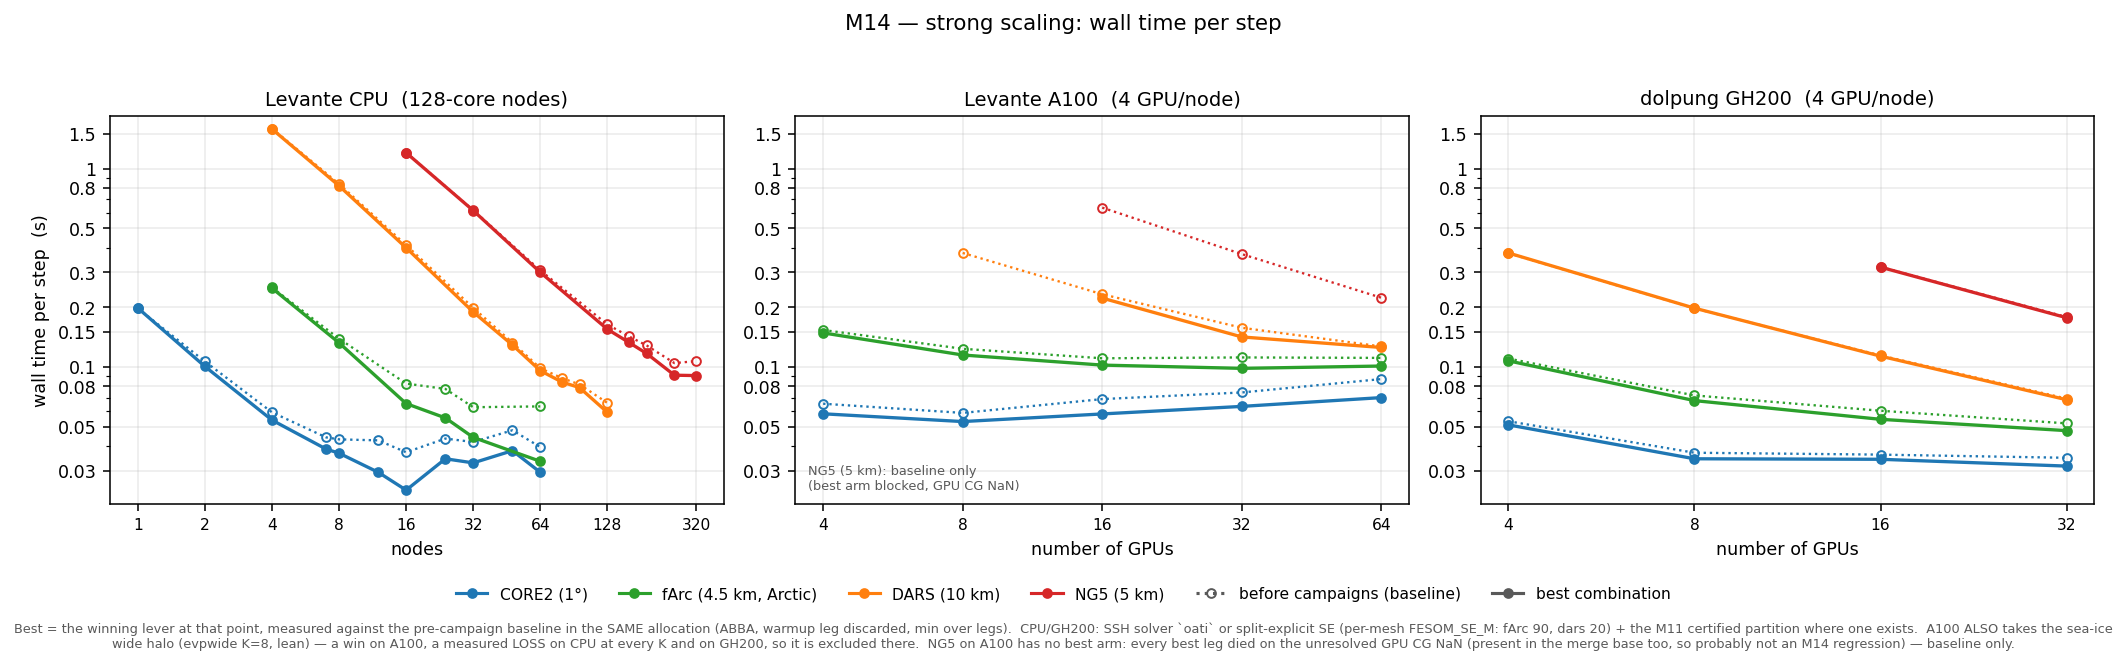
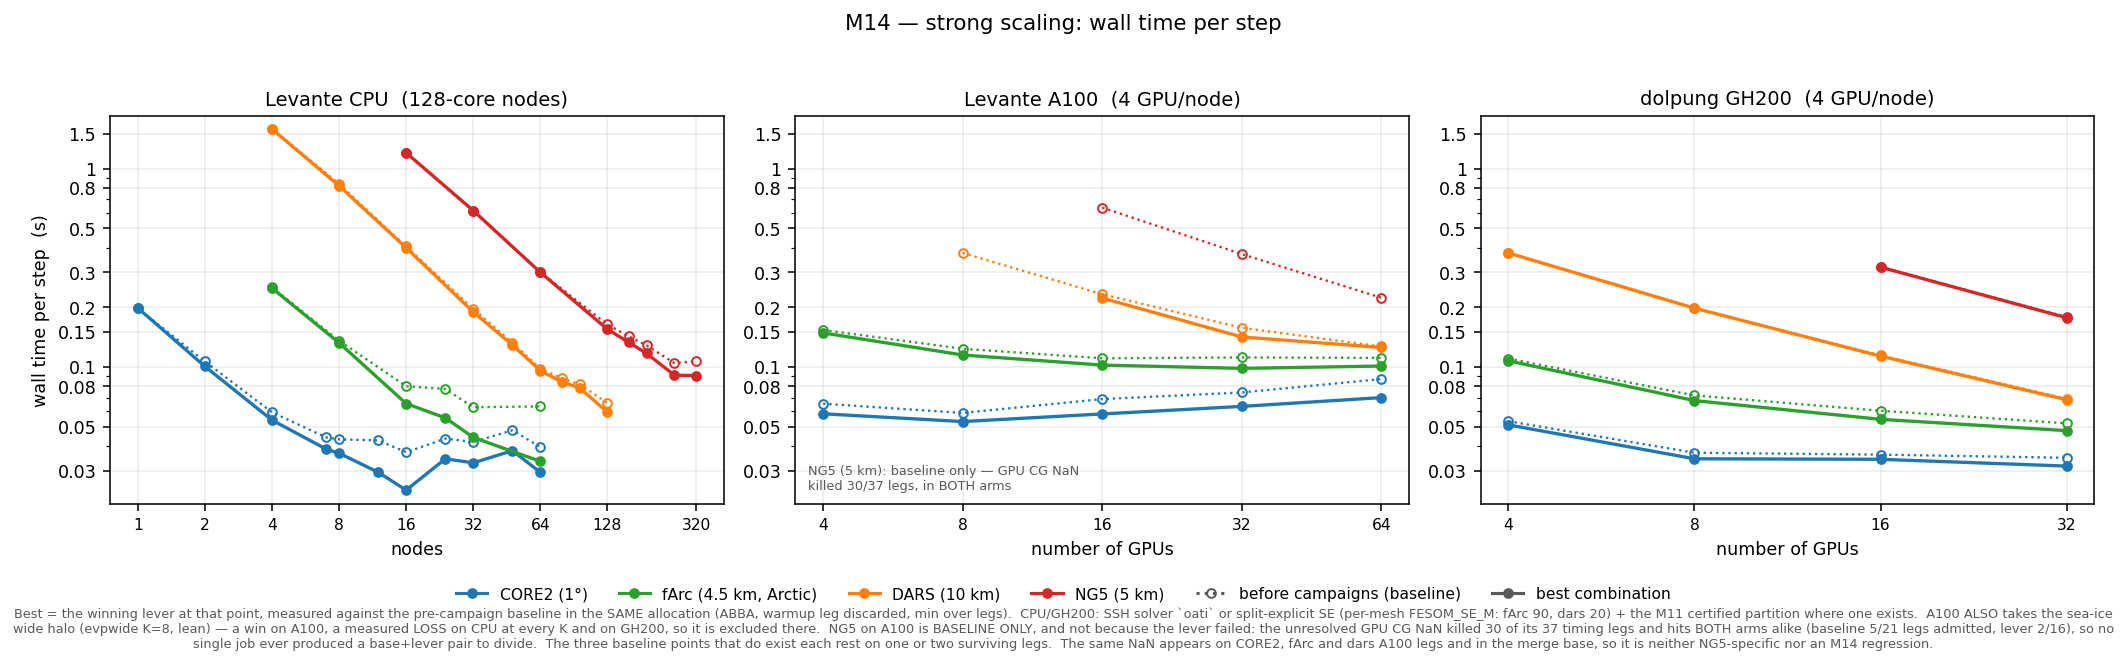
M14 figures: per-lever strong scaling (SSH / sea ice / partitioning) + correct the NG5 GPU diagnosis
Three new figures, each isolating ONE lever measured on its own against the
same baseline, absolute s/step on top and its within-job speedup below,
one column per platform:

  m14_lever_ssh    oati (62 jobs) and split-explicit SE, separate curves;
                   SE (tuned M) and SE (default M=50) kept apart because M is
                   a per-mesh tuning, not a repeat of one configuration
  m14_lever_ice    evpwide K=2/4/8 lean. CPU sits BELOW 1.0 at every K and
                   every rank count -- that is the measurement
  m14_lever_part   dist_N swapped, same binary and knobs: a5_u30, KaMinPar,
                   KaHyPar, certified *_v1. CPU only

Classification: a job carrying two levers (part+oati) is a `combo` and enters
no lever figure; a job with no lever is a `null` cost control and is no longer
admitted as a "best" arm anywhere. The CPU ice jobs are no longer dropped at
harvest -- they are excluded from the best-COMBINATION curve (a measured loss
there) but the ice-only figure has to show exactly that loss.

Also corrects the NG5-on-A100 annotation. It said "best arm blocked, GPU CG
NaN". A leg census over all eleven NG5 A100 jobs says otherwise: 7 of 37
timing legs survived, the failure hits BOTH arms (baseline 5/21 admitted,
lever 2/16) and worsens with scale (4/9 at 16 GPUs, 2/10 at 32, 1/18 at 64).
No job ever got a base leg and a lever leg through together -- that, and not
a lever-specific failure, is why the mesh has no GPU speedup. The FATAL lands
[…]

Changed region(s): [[0.0, 0.9023, 0.9934, 0.9925], [0.3725, 0.6917, 0.4967, 0.7519], [0.1863, 0.5714, 0.2173, 0.6015]]

diff --git a/scripts/m14_scaling_figs.py b/scripts/m14_scaling_figs.py
@@ -83,6 +83,40 @@ def _lever(txt):
     return re.sub(r"\s+", " ", lev)
 
 
+# The three lever families the campaign can isolate, because each was measured on its own against
+# the same baseline in its own job. A job that carries TWO levers (part+oati) is a `combo` and
+# belongs to none of them; a job with no lever at all is a `null` cost control, and admitting it
+# as a "best" arm would put a noise-level pair on a lever's curve.
+FAMILIES = {"ssh":  "SSH solve",
+            "ice":  "sea-ice wide halo",
+            "part": "partitioning"}
+
+
+def classify(txt):
+    """-> (family, detail). detail distinguishes curves WITHIN a family (oati vs SE, K, engine)."""
+    bk = re.search(r"best knobs: (.*)", txt)
+    bm = re.search(r"^best mesh : \S*/(\w+)/dist_", txt, re.M)
+    knobs = re.sub(r"\s+", " ", bk.group(1).strip()) if bk else ""
+    part = bm.group(1) if bm else None
+    ssh = "SSH_SOLVER" in knobs or "SSH_MODE" in knobs
+    ice = "EVPWIDE" in knobs
+    if part and not knobs:
+        return "part", part
+    if part or (ssh and ice):
+        return "combo", (f"part={part} " if part else "") + knobs
+    if ssh:
+        if "SSH_MODE=se" in knobs:
+            # M is a PER-MESH tuning (fArc 90, dars 20); the default 50 is a different
+            # configuration, not a repeat of the same one, so it stays its own curve.
+            return "ssh", "SE (tuned M)" if re.search(r"SE_M=\d+", knobs) else "SE (default M=50)"
+        m = re.search(r"SSH_SOLVER=(\w+)", knobs)
+        return "ssh", m.group(1) if m else "solver"
+    if ice:
+        m = re.search(r"EVPWIDE=(\d+)", knobs)
+        return "ice", "K=" + (m.group(1) if m else "?") + (" lean" if "LEAN" in knobs else "")
+    return "null", ""
+
+
 def harvest():
     """-> list of per-job records {plat, mesh, units, job, lever, base, best}.
 
@@ -92,7 +126,8 @@ def harvest():
     recs = []
 
     def add(plat, mesh, units, job, lever, txt, pat):
-        r = dict(plat=plat, mesh=mesh, units=units, job=job, lever=lever)
+        fam, detail = classify(txt)
+        r = dict(plat=plat, mesh=mesh, units=units, job=job, lever=lever, fam=fam, detail=detail)
         for arm in ("base", "best"):
             m = re.search(pat.format(arm=arm), txt)
             if m and float(m.group(1)) > 0:
@@ -108,11 +143,8 @@ def harvest():
         m = re.search(r"M14 CPU ladder — (\w+) ranks=(\d+)", txt)
         if not m:
             continue
-        lev = _lever(txt)
-        if "evpwide" in lev:      # measured a LOSS on CPU at every K — never in the best arm
-            continue
         add("cpu", m.group(1), max(1, round(int(m.group(2)) / 128)),
-            os.path.basename(f), lev, txt, RESULT)
+            os.path.basename(f), _lever(txt), txt, RESULT)
 
     # --- Levante A100 ------------------------------------------------------
     for f in glob.glob(f"{M14}/gladder.*.out"):
@@ -133,12 +165,27 @@ def harvest():
     return recs
 
 
+def in_best_combination(r):
+    """Which measured levers the "best combination" curve is allowed to take.
+
+    A null control carries no lever. The sea-ice wide halo is a measured LOSS on CPU at every K
+    and on GH200, so the recommended combination excludes it there — but the records are still
+    harvested, because the ice-only figure has to show exactly that loss."""
+    if r["fam"] == "null":
+        return False
+    if r["fam"] == "ice" and r["plat"] != "a100":
+        return False
+    return True
+
+
 def curves(recs):
     """-> {plat: {mesh: {units: {'base': s, 'best': s, 'lever': str}}}}, min over every job."""
     out = collections.defaultdict(lambda: collections.defaultdict(dict))
     for r in recs:
         d = out[r["plat"]][r["mesh"]].setdefault(r["units"], {})
         for arm in ("base", "best"):
+            if arm == "best" and not in_best_combination(r):
+                continue
             if arm in r and (arm not in d or r[arm] < d[arm]):
                 d[arm] = r[arm]
                 if arm == "best":
@@ -152,7 +199,7 @@ def speedups(recs):
     Same lever measured several times => median gain (F43). Different levers => the best."""
     per_lever = collections.defaultdict(list)
     for r in recs:
-        if "base" in r and "best" in r:
+        if "base" in r and "best" in r and in_best_combination(r):
             per_lever[(r["plat"], r["mesh"], r["units"], r["lever"])].append(r["base"] / r["best"])
     out = collections.defaultdict(lambda: collections.defaultdict(dict))
     best = {}
@@ -216,8 +263,12 @@ NOTE_SYPD = ("SYPD = dt_prod/(365·s_step), dt_prod = CORE2 1800 · fArc 900 · 
              "dars is measured at dt120 and NG5 at dt180 — NO CG dt-correction applied (it would "
              "be ×1.022 / ×1.011), so dars/NG5 SYPD is ~2 %/1 % optimistic.  SE points rescaled "
              "to production dt are estimates: the barotropic subcycle count depends on dt.")
-NOTE_GAP = ("NG5 on A100 has no best arm: every best leg died on the unresolved GPU CG NaN "
-            "(present in the merge base too, so probably not an M14 regression) — baseline only.")
+NOTE_GAP = ("NG5 on A100 is BASELINE ONLY, and not because the lever failed: the unresolved GPU CG "
+            "NaN killed 30 of its 37 timing legs and hits BOTH arms alike (baseline 5/21 legs "
+            "admitted, lever 2/16), so no single job ever produced a base+lever pair to divide.  "
+            "The three baseline points that do exist each rest on one or two surviving legs.  The "
+            "same NaN appears on CORE2, fArc and dars A100 legs and in the merge base, so it is "
+            "neither NG5-specific nor an M14 regression.")
 
 
 def annotate_gaps(ax, plat, data):
@@ -228,7 +279,8 @@ def annotate_gaps(ax, plat, data):
                if m in data.get(plat, {})
                and not any("best" in v for v in data[plat][m].values())]
     if missing:
-        ax.text(0.02, 0.03, "  ".join(missing) + ": baseline only\n(best arm blocked, GPU CG NaN)",
+        ax.text(0.02, 0.03, "  ".join(missing) + ": baseline only — GPU CG NaN\n"
+                "killed 30/37 legs, in BOTH arms",
                 transform=ax.transAxes, fontsize=6.6, color="0.35", va="bottom")
 
 
@@ -347,6 +399,121 @@ def fig_speedup(sp, data, fname):
     print("wrote", fname)
 
 
+DETAIL_LS = ["-", "--", "-.", (0, (3, 1, 1, 1, 1, 1))]
+
+
+def fig_lever(recs, data, fam, fname):
+    """One lever, on its own: absolute curves (row 0) and its within-job speedup (row 1).
+
+    The baseline (dotted) is the SAME curve in every lever figure — min over every admitted base
+    leg at that rung, from any job. The lever curve is min over that family's best legs only.
+    Speedups are within-job, so a rung where the lever ran but its own baseline legs died has an
+    absolute point and NO speedup point — that asymmetry is real and is left visible."""
+    mine = [r for r in recs if r["fam"] == fam]
+    # Most-measured detail gets the solid line: within a family it is the one the campaign
+    # actually settled on (oati, K=8, a5_u30), and the eye reads solid as the main curve.
+    freq = collections.Counter(r["detail"] for r in mine)
+    details = sorted(freq, key=lambda d: (-freq[d], d))
+    ls_of = {d: DETAIL_LS[i % len(DETAIL_LS)] for i, d in enumerate(details)}
+
+    lev_abs = collections.defaultdict(dict)          # (plat,mesh,detail) -> {units: s}
+    lev_sp = collections.defaultdict(lambda: collections.defaultdict(list))
+    for r in mine:
+        k = (r["plat"], r["mesh"], r["detail"])
+        if "best" in r:
+            d = lev_abs[k]
+            if r["units"] not in d or r["best"] < d[r["units"]]:
+                d[r["units"]] = r["best"]
+        if "base" in r and "best" in r:
+            lev_sp[k][r["units"]].append(r["base"] / r["best"])
+
+    fig, axes = plt.subplots(2, 3, figsize=(15.0, 7.8))
+    lo, hi, shi, slo = 1e9, 0, 1.05, 1.0
+    for col, (plat, pname, xlab) in enumerate(PLATS):
+        a0, a1 = axes[0][col], axes[1][col]
+        allx = []
+        for mesh in MESH_ORDER:
+            c = MESH_COLOR.get(mesh, "k")
+            base = {u: v["base"] for u, v in data.get(plat, {}).get(mesh, {}).items()
+                    if "base" in v}
+            has = [d for d in details if lev_abs.get((plat, mesh, d))]
+            if not has:
+                continue
+            xs = sorted(base)
+            if xs:                                   # baseline, identical in all three figures
+                a0.plot(xs, [base[u] for u in xs], marker="o", ms=4, ls=":", color=c, lw=1.2,
+                        markerfacecolor="none")
+                allx += xs
+                lo, hi = min(lo, min(base.values())), max(hi, max(base.values()))
+            for d in has:
+                pts = lev_abs[(plat, mesh, d)]
+                xs = sorted(pts)
+                allx += xs
+                lo, hi = min(lo, min(pts.values())), max(hi, max(pts.values()))
+                a0.plot(xs, [pts[u] for u in xs], marker="o", ms=4.5, ls=ls_of[d], color=c, lw=1.7)
+                sp = lev_sp.get((plat, mesh, d), {})
+                xs = sorted(sp)
+                if xs:
+                    ys = [statistics.median(sp[u]) for u in xs]
+                    shi, slo = max(shi, max(ys)), min(slo, min(ys))
+                    a1.plot(xs, ys, marker="o", ms=4.5, ls=ls_of[d], color=c, lw=1.7)
+        for ax in (a0, a1):
+            if allx:
+                log2_axis(ax, allx, xlab if ax is a1 else "")
+            ax.grid(alpha=0.25)
+            if not allx:
+                ax.text(0.5, 0.5, "not measured", transform=ax.transAxes, ha="center",
+                        fontsize=9, color="0.6")
+                ax.set_xticks([])
+                ax.set_yticks([])
+        a1.axhline(1.0, color="0.5", lw=1.0, ls="--")
+        a0.set_title(pname, fontsize=10)
+        if allx:
+            a0.set_yscale("log")
+        if col == 0:
+            a0.set_ylabel("wall time per step  (s)")
+            a1.set_ylabel("speedup  (baseline / lever)")
+    for col in range(3):
+        if axes[0][col].get_xticks().size:
+            decimal_log_yaxis(axes[0][col], lo, hi)
+        axes[1][col].set_ylim(min(0.97, slo * 0.99), max(1.03, shi * 1.03))
+
+    handles = [Line2D([], [], color=MESH_COLOR.get(m, "k"), marker="o", ms=4.5, ls="-",
+                      label=MESH_LABEL.get(m, m)) for m in MESH_ORDER
+               if any((p, m, d) in lev_abs for p, _, _ in PLATS for d in details)]
+    handles += [Line2D([], [], color="0.35", ls=":", marker="o", ms=4, markerfacecolor="none",
+                       label="baseline")]
+    handles += [Line2D([], [], color="0.35", ls=ls_of[d], label=d) for d in details]
+    ncol = min(len(handles), 6)
+    rows = -(-len(handles) // ncol)                  # the legend wrapped onto the x-label
+    bottom = 0.075 + 0.022 * rows
+    fig.legend(handles=handles, ncol=ncol, fontsize=8, frameon=False,
+               loc="lower center", bbox_to_anchor=(0.5, bottom - 0.022 * rows))
+    fig.suptitle(f"M14 — {FAMILIES[fam]} alone: strong scaling and speedup", fontsize=11, y=0.99)
+    fig.text(0.5, 0.008, LEVER_NOTE[fam], ha="center", fontsize=6.6, color="0.35", wrap=True)
+    fig.tight_layout(rect=[0, bottom, 1, 0.965])
+    fig.savefig(fname, dpi=140)
+    print("wrote", fname)
+
+
+LEVER_NOTE = {
+    "ssh": ("Two distinct SSH levers, both measured alone against the same baseline: the `oati` "
+            "Krylov solver (M10) and split-explicit barotropic subcycling (M12, `FESOM_SSH_MODE=se`, "
+            "requires zstar).  SE needs a PER-MESH subcycle count: the default M=50 ABORTS on fArc "
+            "and inverts the verdict on dars, so fArc is run at M=90 and dars at M=20.  An SE point "
+            "rescaled to production dt would be an estimate — these are s/step at the measured dt."),
+    "ice": ("The M9/M12b wide ice halo (FESOM_SPEED_EVPWIDE=K with the lean writing), which trades "
+            "halo EXCHANGES for replicated ghost work, so it pays only where a flat per-message "
+            "staging cost dominates.  On A100 that holds and it is the campaign's best GPU lever; "
+            "on CPU it is a LOSS at every K and every rank count, which is why the CPU panel sits "
+            "BELOW 1.0 — that is the measurement, not a plotting error."),
+    "part": ("Partitioning alone: the same binary and knobs, only the dist_N tree swapped for an "
+             "M11 partition (a5_u30 = slack UFACTOR=30, plus the KaHyPar/KaMinPar external engines "
+             "and the certified *_v1 promotions).  Measured on CPU only — the M11 GPU points were "
+             "re-measured in that campaign, not re-run here."),
+}
+
+
 if __name__ == "__main__":
     recs = harvest()
     data, sp = curves(recs), speedups(recs)
@@ -360,6 +527,18 @@ if __name__ == "__main__":
                        default=None)
             tag = f"  best A/B {best[0]:.3f}x @{best[1]} [{best[2]}]" if best else "  no A/B pair"
             print(f"  {pname:32s} {mesh:6s}: {len(pts):2d} rungs, {nb:2d} with a best arm{tag}")
+    print("\n  per-lever job counts (jobs with a usable within-job pair / jobs with a best arm):")
+    for fam in FAMILIES:
+        n = [r for r in recs if r["fam"] == fam]
+        print(f"    {fam:5s} {FAMILIES[fam]:20s} "
+              f"{sum(1 for r in n if 'base' in r and 'best' in r):3d} / {sum(1 for r in n if 'best' in r):3d}"
+              f"   details: {sorted({r['detail'] for r in n})}")
+    for fam in ("combo", "null"):
+        n = [r for r in recs if r["fam"] == fam]
+        print(f"    {fam:5s} {'(excluded from lever figures)':20s} {len(n):3d} jobs")
+
     fig_sstep(data, f"{M14}/m14_scaling_sstep.png")
     fig_sypd(data, f"{M14}/m14_scaling_sypd.png")
     fig_speedup(sp, data, f"{M14}/m14_speedup.png")
+    for fam in FAMILIES:
+        fig_lever(recs, data, fam, f"{M14}/m14_lever_{fam}.png")

diff --git a/docs/plans/20260816-m14-HANDOFF.md b/docs/plans/20260816-m14-HANDOFF.md
@@ -13,6 +13,17 @@
    `h17` clean — so probably NOT an M14 regression, but that test was underpowered (20 steps at
    32 GPUs = 1 failure in 12 legs). **Re-armed at the failing condition (64 GPUs × 300 steps, jobs
    26997395 ng5 / 26997396 dars) — READ THOSE FIRST.**
+   🔴 **AMENDED 2026-08-16 (leg census over every A100 ladder job, while rebuilding the figures):
+   "intermittently" understates it at NG5.** Across the NG5 A100 rungs (16/32/64 GPUs) only **7 of
+   37 timing legs survived**, and the failure is **not arm-specific** — baseline 5/21 admitted,
+   lever 2/16. It worsens with scale: 4/9 admitted at 16 GPUs, 2/10 at 32, **1/18 at 64**. So no
+   NG5 A100 job ever produced a base+lever pair in one allocation, which is the *only* reason that
+   mesh has no GPU speedup. Most failing legs carry the `pp·App is -nan` FATAL in **`run.err`, not
+   `run.log`** (grepping the wrong stream reads as "no NaN anywhere" — it cost me an incorrect
+   statement to the user); the remainder are SIGKILL with no FATAL recorded, which may be the same
+   event with the message unflushed — **untested, candidate explanation only**. Two further jobs
+   (26993172, 26996418) are plain SLURM TIMEOUTs: five NG5 legs at 16 GPUs need ~50 min and the
+   jobs asked for 40-45. Raise the walltime before re-running that rung.
 2. **Both promotion screens fail** (`dars_gpu_v1`, `ng5_gpu_v1`) with that same NaN. The control
    proved it is NOT the candidate partition — **stock dars fails identically**. So promotion is
    blocked on (1), not on the partitions.
@@ -113,8 +124,20 @@ an in-run selfcheck, not a trajectory comparison.
 4. **NG5 320-node optimised point** — 27001087 (retry). The first attempt died on
    `cannot open …/my_list16465.out`; the file EXISTS and opens fine ⇒ transient Lustre metadata
    contention at ~82k concurrent opens at 40960 ranks, not a broken partition. Retry if it recurs.
-5. **Figures + campaign doc.** `scripts/m14_scaling_figs.py` regenerates both figures from the logs,
-   no manual editing. Then write `docs/M14_INTEGRATION.md` (plan Task E2) and open the merge.
+5. ~~**Figures**~~ ✅ **DONE 2026-08-16.** `scripts/m14_scaling_figs.py` now writes **six** figures
+   from the logs, no manual editing, into `$M14/` and `docs/figures/`:
+   `m14_scaling_sstep` · `m14_scaling_sypd` (2 rows: small / large meshes × 3 platforms — one linear
+   SYPD axis per platform buried dars/NG5 under CORE2) · `m14_speedup` (the combined levers) ·
+   and one per ISOLATED lever, absolute + speedup: `m14_lever_ssh` (oati vs SE), `m14_lever_ice`,
+   `m14_lever_part`.
+   🔴 **Two estimator rules are now enforced in the script, and one of them changed a number.**
+   Absolute curves take the min over every admitted leg of every job; a **speedup is only ever a
+   WITHIN-job ratio**. The old harvest divided min(base) by min(best) across *different* jobs, which
+   is how A100 dars at 32 GPUs read "−10.1 %": that job's own baseline legs were rejected, so the
+   pair never existed. The defensible dars A100 number is **1.046× at 16 GPUs**. A job carrying two
+   levers (`part+oati`) is a `combo` and enters no lever figure; a job with no lever is a `null`
+   cost control and is no longer admitted as a "best" arm at all.
+   **Campaign doc still open:** write `docs/M14_INTEGRATION.md` (plan Task E2) and open the merge.
 
 ---
 
